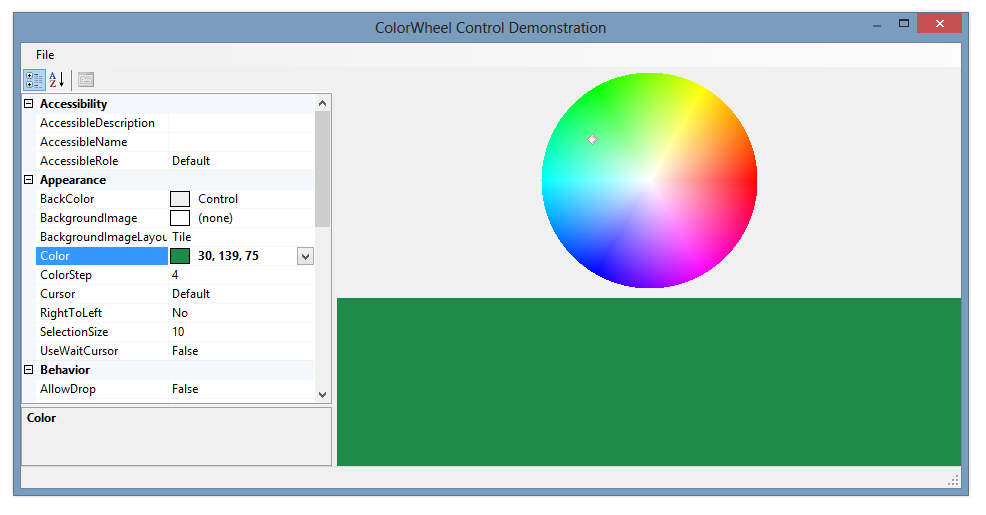
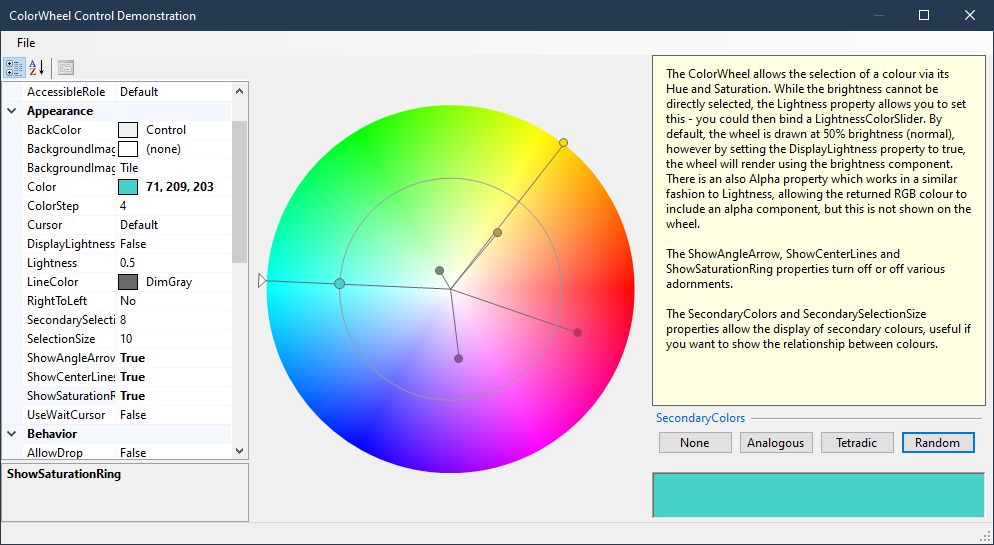
Docs updates

diff --git a/README.md b/README.md
@@ -56,8 +56,15 @@ the primary palette.
 ![ColorWheel control demonstration][colorwheelscreen]
 
 This control displays a radial wheel of RGB colours and allows
-selection from any point in the wheel. Not much in the way of
-customisation for this control!
+selection from any point in the wheel. The `ShowAngleArrow`,
+`ShowCenterLines` and `ShowSaturationRing` properties can be
+used to display useful adornments, while the `Lightness` and
+`Alpha` properties can be used to compose the final colour while
+not being directly editable on the wheel.
+
+The `SecondaryColors` and `SecondarySelectionSize` properties
+allow you to display additional colours on the wheel, for
+example for showing relationships.
 
 ### ColorSlider Controls
 

diff --git a/CHANGELOG.md b/CHANGELOG.md
@@ -31,6 +31,10 @@
   `CustomColors` properties to the `ColorPickerDialog` component
 * Added `CustomColorsLoading` and `CustomColorsSaving` events to
   the `ColorPickerDialog` component
+* Added `ShowSaturationRing`, `ShowCenterLines`, `LineColor`,
+  `ShowAngleArrow`, `SecondaryColors` and
+  `SecondarySelectionSize` properties to the `ColorWheel`
+  control
 
 #### Changed
 
